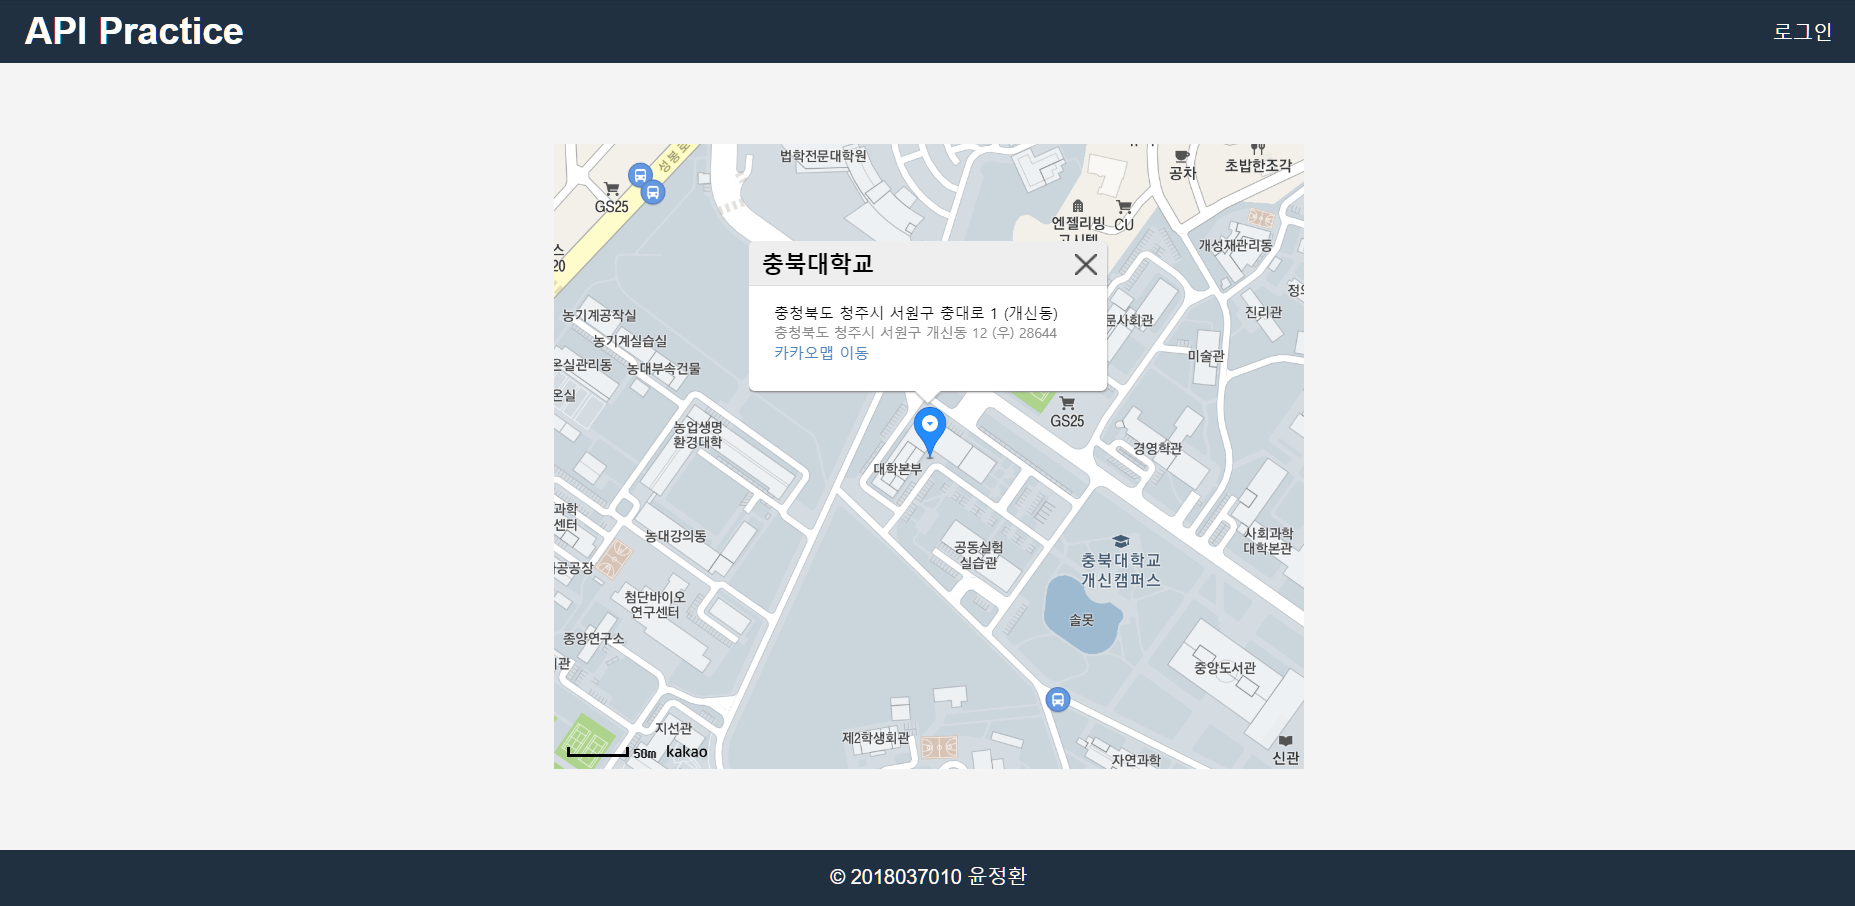
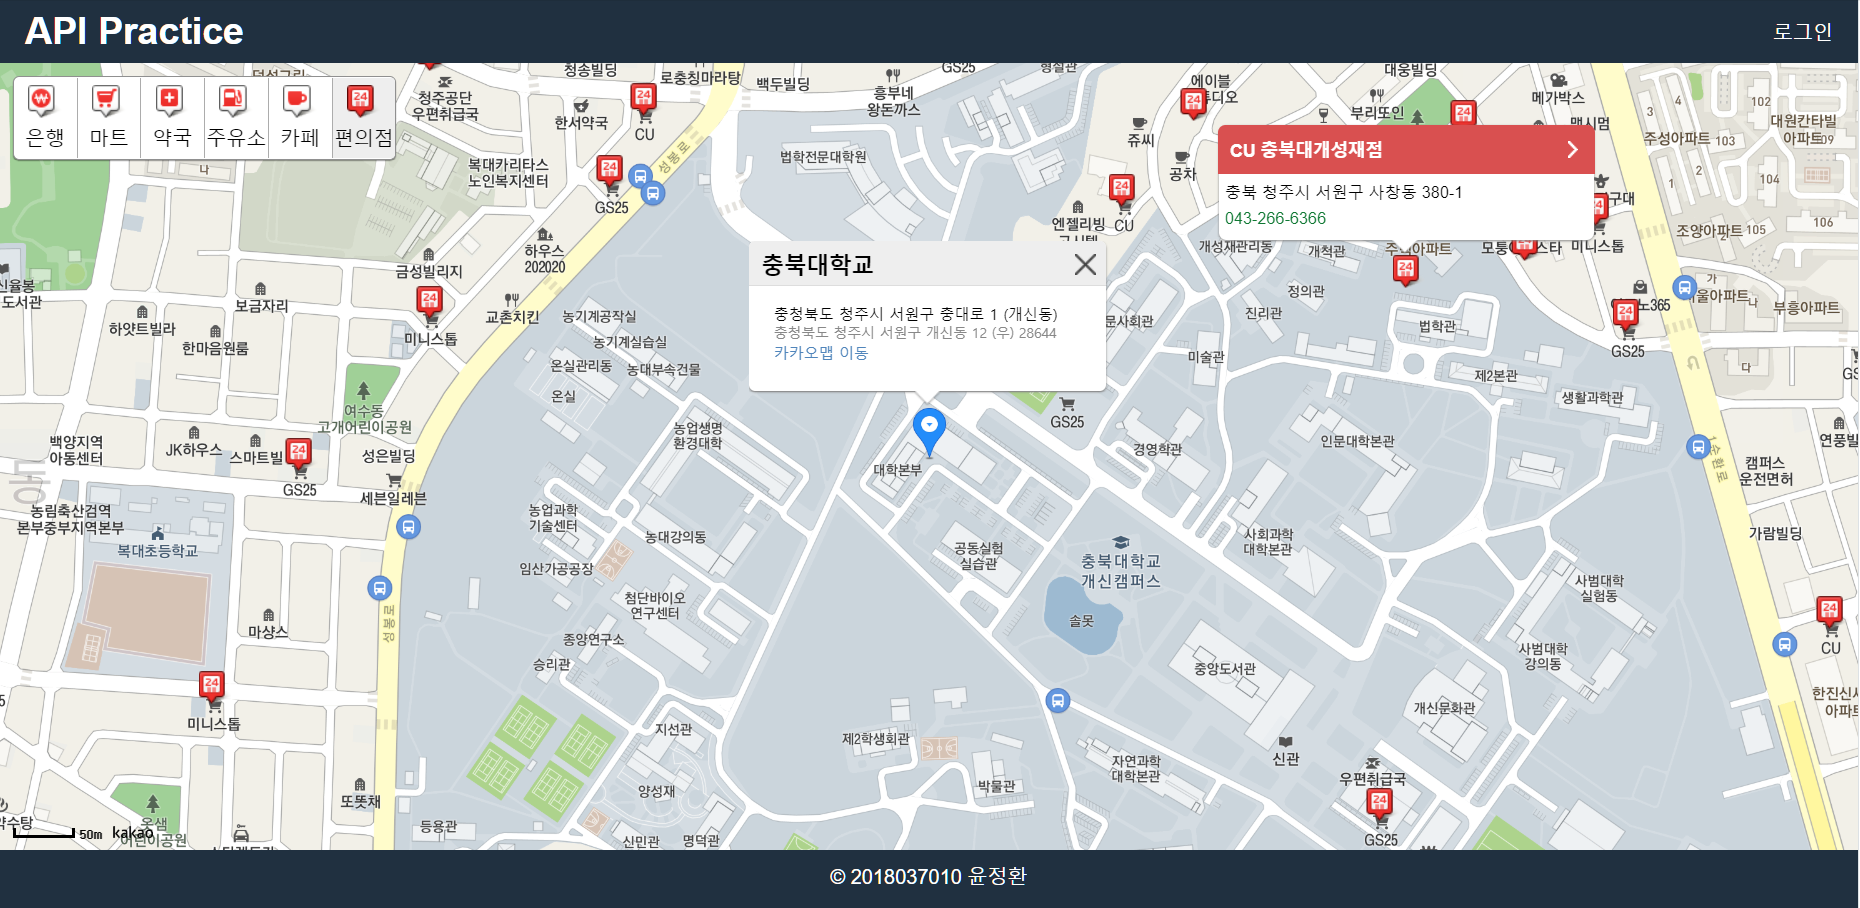
README.md 내용 수정

diff --git a/README.md b/README.md
@@ -1,6 +1,6 @@
 # HTML, CSS, JavaScript
 
-![](img/home.gif)
+![](img/test.gif)
 
 <br>
 
@@ -111,6 +111,8 @@ function pageMake(jsonStr) {
 ## 지도
 
 ![](img/지도.png)
+
+- 검색한 위치 근처에 존재하는 편의 시설을 검색해 볼 수 있다.
 
 ```html
 <a
